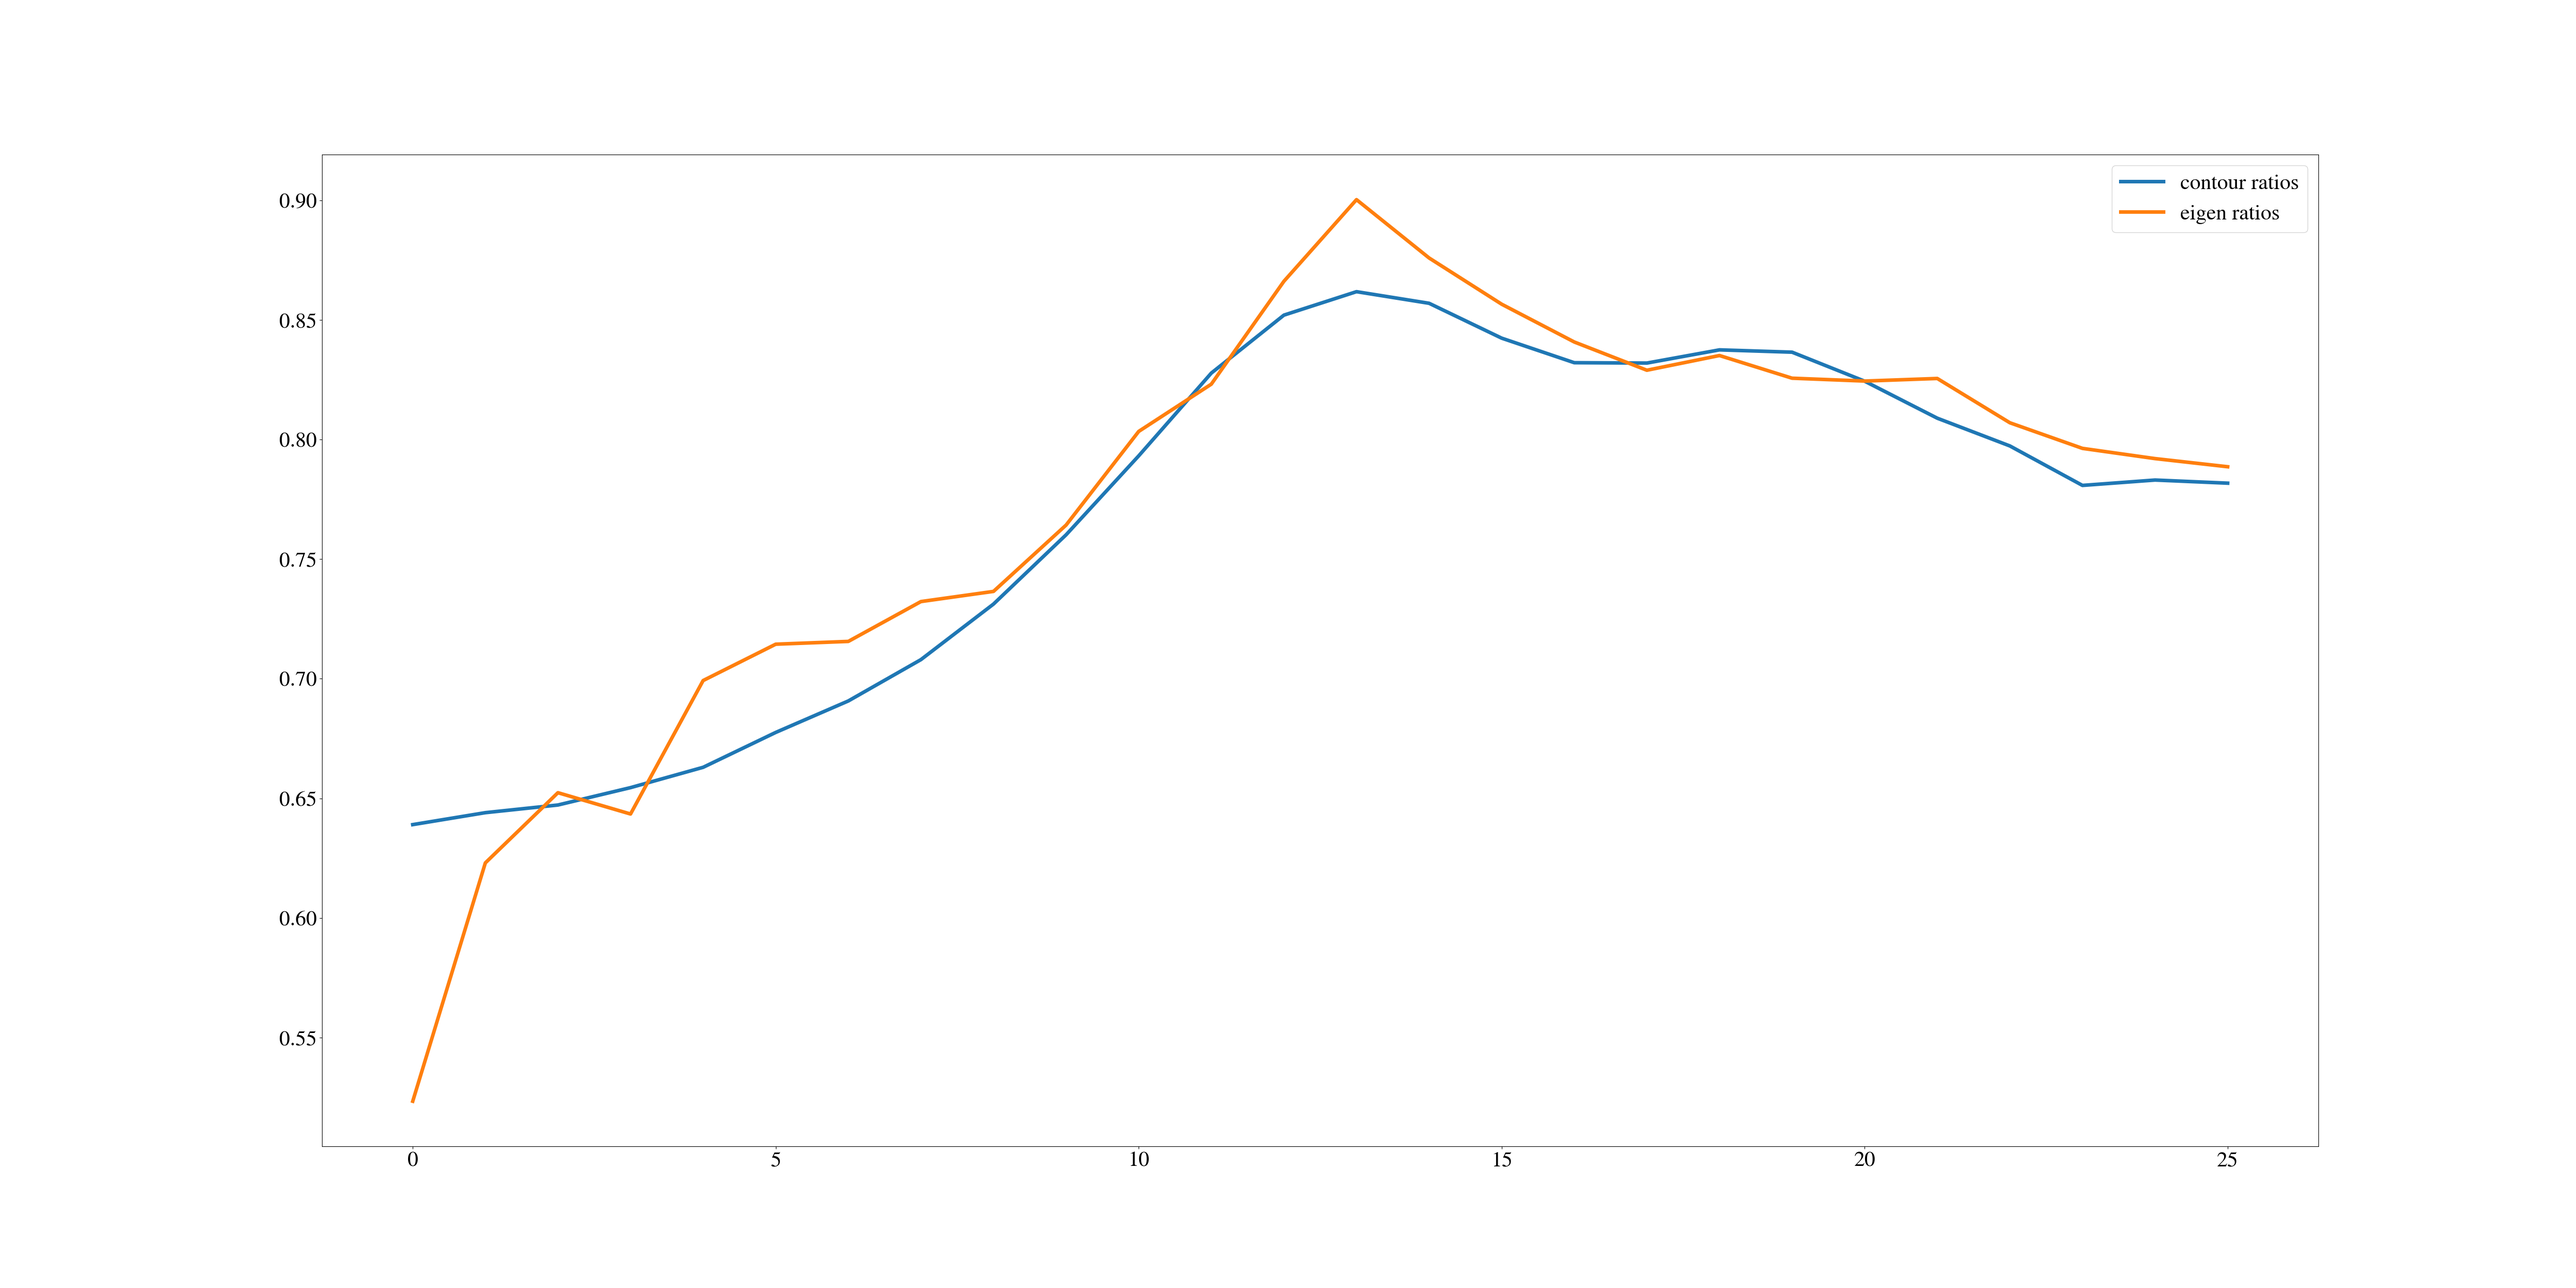
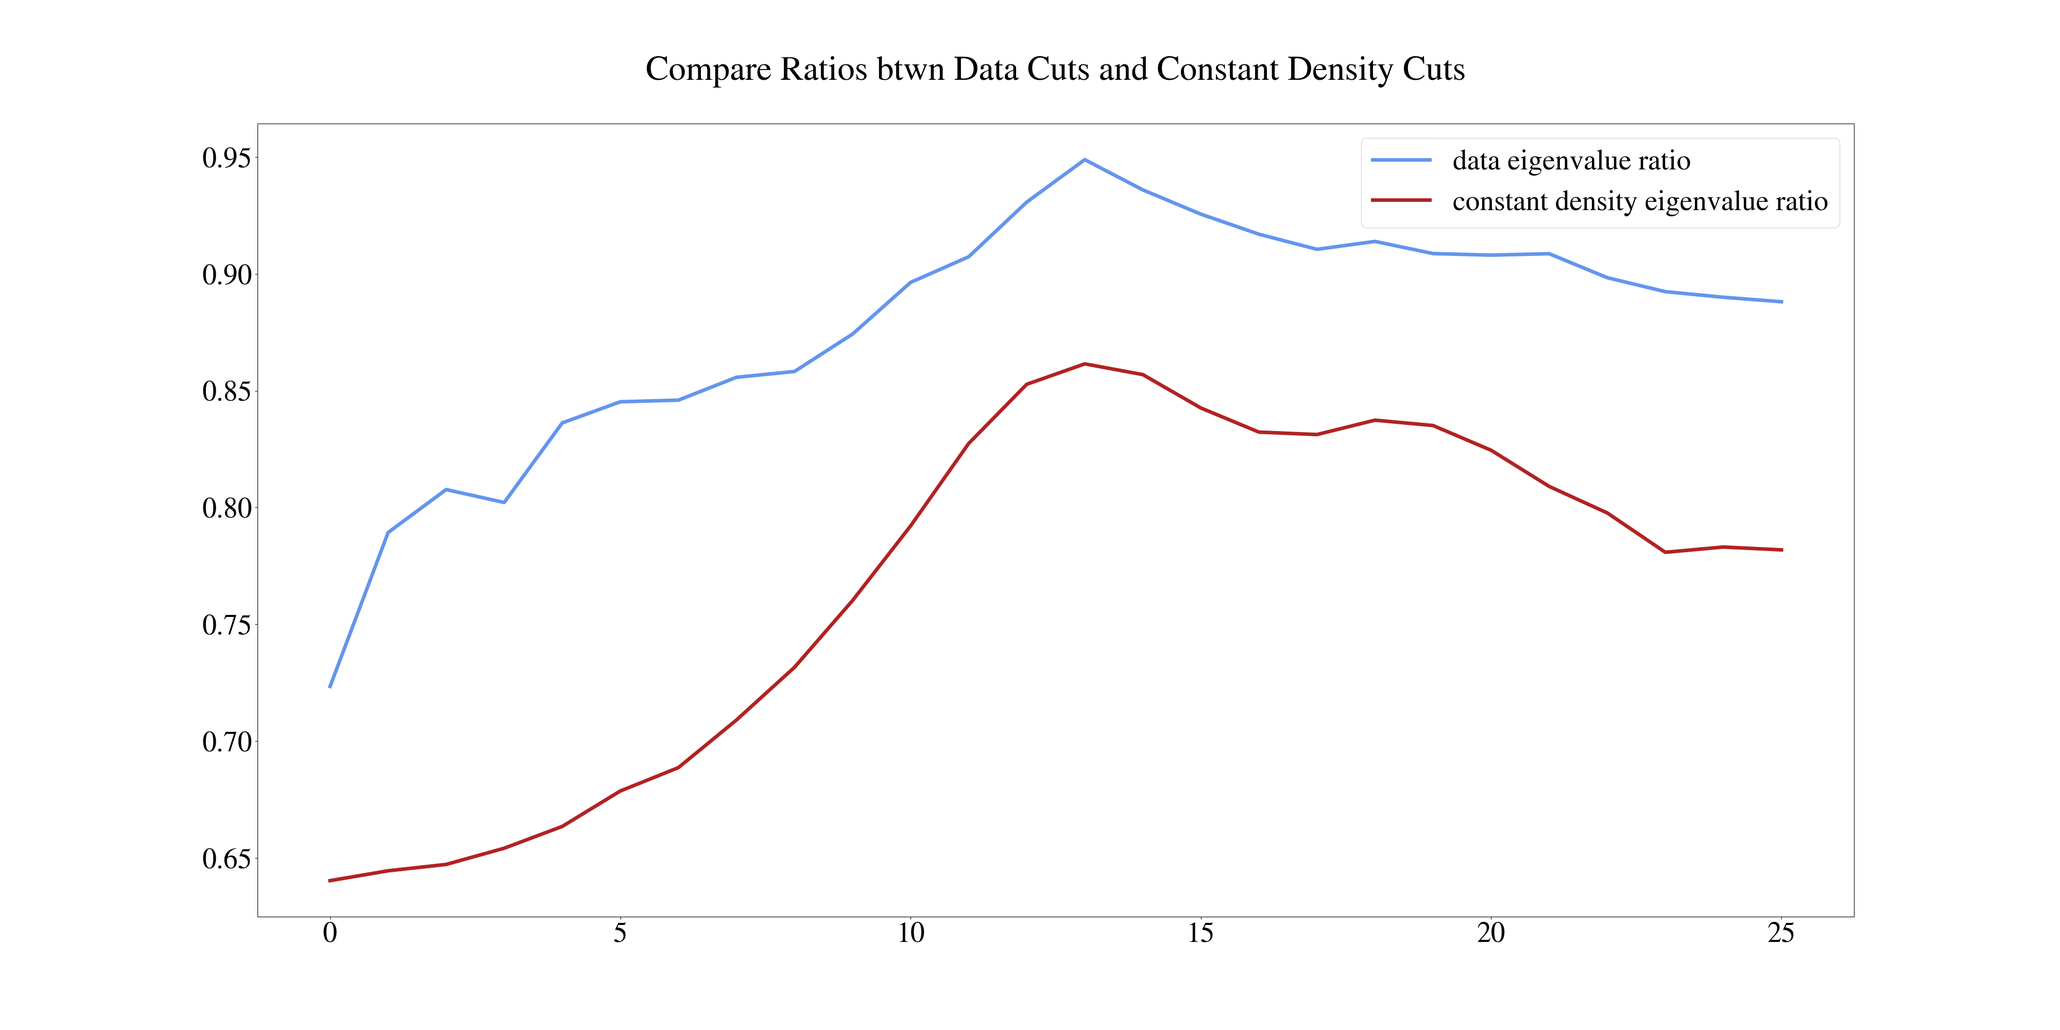
update example to include error analysis

diff --git a/scripts/examples/compare_ratios/compare_ratios_graphing.py b/scripts/examples/compare_ratios/compare_ratios_graphing.py
@@ -1,22 +1,38 @@
 
 from matplotlib import pyplot as plt
 plt.style.use('../../../../../default_stylesheet.mplstyle')
-fig = plt.gcf() ; fig.set_size_inches(50,25)
+fig = plt.gcf() ; fig.set_size_inches(40,20)
 
 import numpy as np
 
-expected_M = np.load("expected_M.npy", allow_pickle=True)
 actual_M = np.load("actual_M.npy", allow_pickle=True)
+act_ratios = [(aM[1]/aM[0]) for aM in actual_M]
 
-exp_ratios = [eM[1]/eM[0] for eM in expected_M]
-act_ratios = [(aM[1]/aM[0])**2 for aM in actual_M]
+errs = np.load("errors.npy", allow_pickle=True)
+y_errs = [ae*np.sqrt((e[0]/M[0])**2 + (e[1]/M[1])**2) for ae,e,M in zip(act_ratios,errs,actual_M)]
 
-plt.plot(exp_ratios, label="contour ratios")
-plt.plot(act_ratios, label="eigen ratios")
+exp_M = np.load("expected_M.npy", allow_pickle=True)
+exp_ratios = [(eM[1]/eM[0]) for eM in exp_M]
+
+plt.plot(act_ratios, label="data eigenvalue ratio", color="cornflowerblue")
+plt.plot(exp_ratios, label="constant density eigenvalue ratio", color="firebrick")
+
 plt.legend()
+plt.title("Compare Ratios btwn Data Cuts and Constant Density Cuts\n")
 plt.savefig("ratio_comparison.png")
 
 
 
 
+'''
 
+
+eth_data = np.load("../../../data/ethan_data/ellipse_specs.npy", allow_pickle=True)
+a_s = eth_data[0][::-1] ; b_s = eth_data[1][::-1]
+eth_ratios = [b/a for a,b in zip(a_s, b_s)]
+eth_eccs = [1-b/a for a,b in zip(a_s, b_s)]
+
+plt.plot(a_s, eth_ratios, label="contour fit ratio", color="firebrick")
+p
+
+'''

diff --git a/scripts/examples/compare_ratios/compare_ratios.py b/scripts/examples/compare_ratios/compare_ratios.py
@@ -33,6 +33,7 @@ p = np.array(p)
 
 expected_ratios = [] ; actual_ratios = []
 expected_evals = [] ; actual_evals = []
+errs = []
 i = list(a_s).index(min(a_s))
 lower_ellipse = (a_s[i], b_s[i], alpha_s[i])
 for upper_ellipse in sorted(zip(a_s, b_s, alpha_s))[1:]:
@@ -40,7 +41,7 @@ for upper_ellipse in sorted(zip(a_s, b_s, alpha_s))[1:]:
     selection = ef.ellipse_cut(p, lower_ellipse, upper_ellipse) 
 
     M_actual, evecs_actual = ac.iterate_2D(selection)
-    M_exp, evecs_exp = cds.constant_density_eigs(lower_ellipse, upper_ellipse, len(selection)*10) 
+    M_exp, evecs_exp, errors = cds.constant_density_eigs(lower_ellipse, upper_ellipse, len(selection), num_straps=5) 
 
     expected_ratios += [M_exp]
     actual_ratios += [M_actual]
@@ -48,13 +49,16 @@ for upper_ellipse in sorted(zip(a_s, b_s, alpha_s))[1:]:
     expected_evals += [evecs_exp]
     actual_evals += [evecs_actual]
 
+    errs += [errors]
+
 expected_ratios = np.array(expected_ratios)
 actual_ratios = np.array(actual_ratios)
 expected_evals = np.array(expected_evals)
 actual_evals = np.array(actual_evals)
+errs = np.array(errs)
 
 np.save("actual_M.npy",actual_ratios)
 np.save("expected_M.npy",expected_ratios)
 np.save("expected_evals.npy",expected_evals)
 np.save("actual_evals.npy",actual_evals)
-
+np.save("errors.npy",errs)
